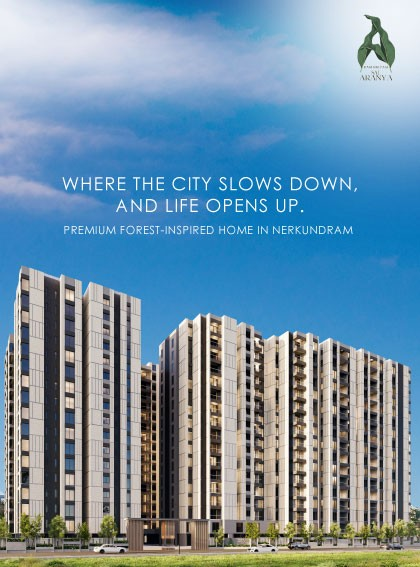
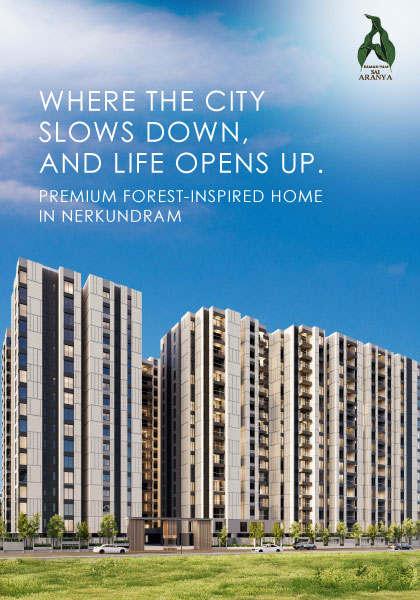
26/03/2026 - footer updated

diff --git a/index.html b/index.html
@@ -194,7 +194,7 @@
 
           <!-- Desktop: Absolute Form over banner -->
           <div
-            class="hidden lg:block absolute top-8 xl:top-32 right-3 xl:right-14 z-20 w-[370px] xl:w-[420px] animate-up"
+            class="hidden lg:block absolute top-8 lg:top-40 lg:right-5 xl:top-32 right-3 xl:right-14 z-20 w-[370px] xl:w-[420px] animate-up"
           >
             <div
               class="relative bg-white rounded-2xl xl:rounded-3xl overflow-hidden"
